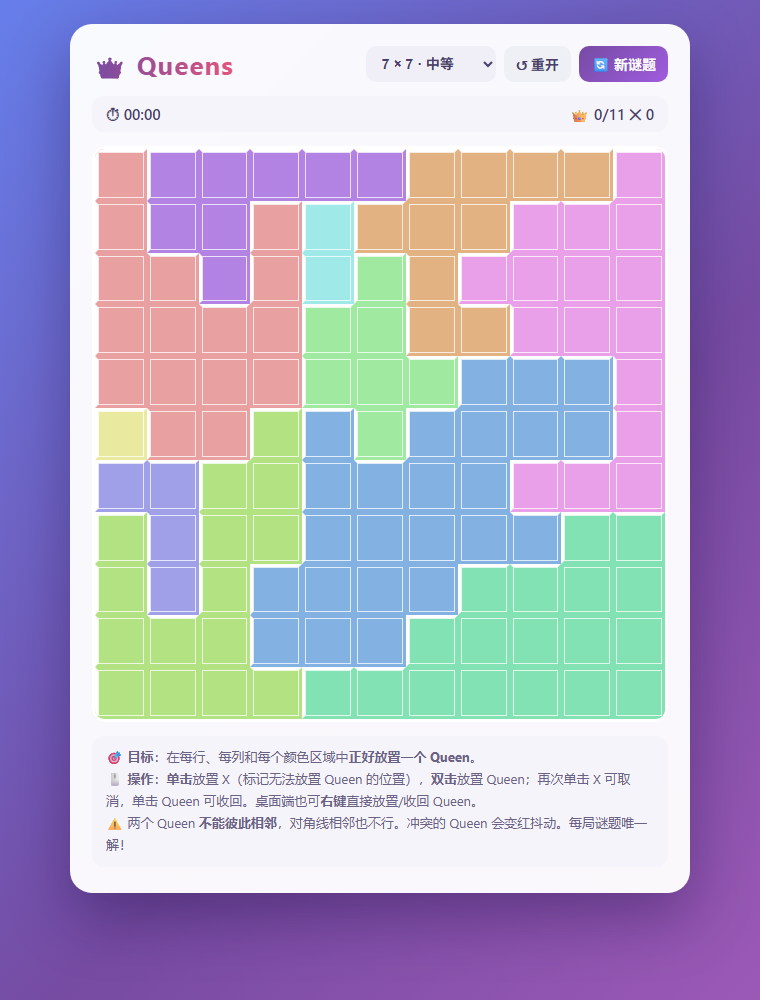
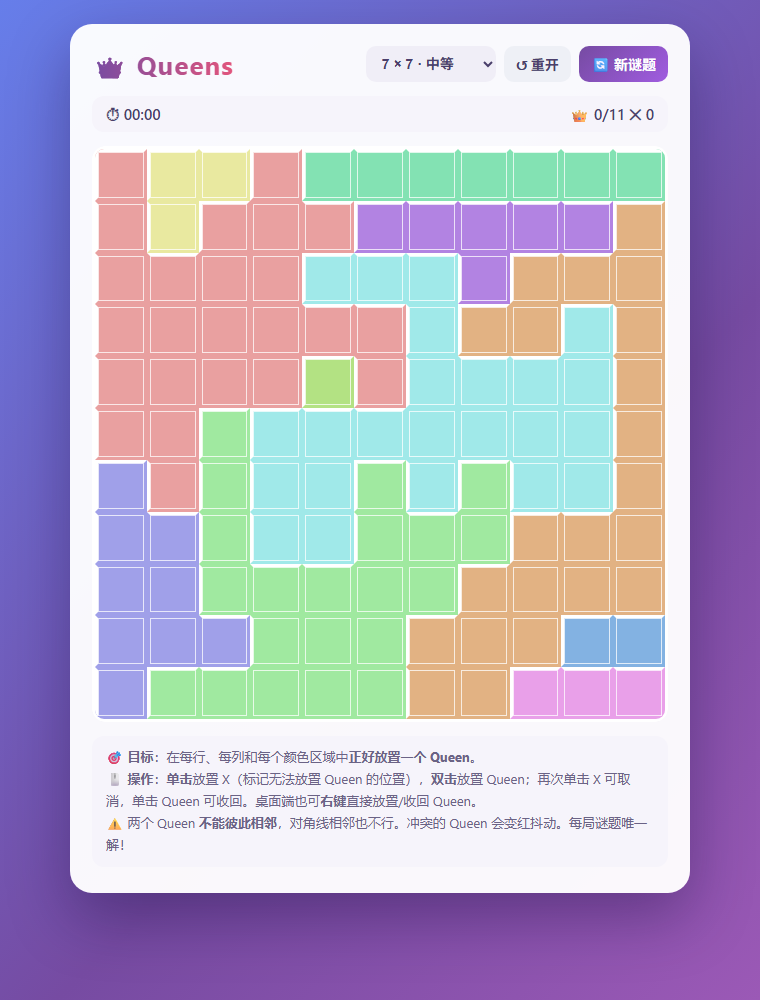
Varied region sizes: weighted Voronoi seeds + post-solve verified area polish

diff --git a/index.html b/index.html
@@ -227,16 +227,18 @@ function randomPermutationSolution(n) {
   return bt(0) ? pos : null;
 }
 
-// 区域生长：距离场(Voronoi)归属 + 连通修复 + 凸起平滑，生成圆润规整的色区
+// 区域生长：加权距离场(Voronoi)归属 + 连通修复 + 凸起平滑，生成大小参差、互相咬合的色区
 function growRegions(n, seeds) {
   const DIRS = [[-1, 0], [1, 0], [0, -1], [0, 1]];
   const region = Array.from({ length: n }, () => new Array(n).fill(-1));
-  // 1) 每个种子带轻微随机偏移，按曼哈顿距离把格子分给最近的种子 → 边界近似平滑的 Voronoi 块
-  const bias = seeds.map(() => Math.random() * 2.4);
+  // 1) 每个种子有强有弱（权重）且带偏移；每格再加轻微噪声 → 区域大小参差、边界互相咬合
+  const weight = seeds.map(() => 0.68 + Math.random() * 0.8); // 0.68~1.48：大小拉开差距
+  const bias = seeds.map(() => Math.random() * 1.8);
   for (let r = 0; r < n; r++) for (let c = 0; c < n; c++) {
     let best = 0, bd = Infinity;
     for (let s = 0; s < n; s++) {
-      const d = Math.abs(r - seeds[s].r) + Math.abs(c - seeds[s].c) + bias[s];
+      const d = (Math.abs(r - seeds[s].r) + Math.abs(c - seeds[s].c)) / weight[s] +
+        bias[s] + Math.random() * 0.55; // 格子级噪声：制造自然咬合
       if (d < bd) { bd = d; best = s; }
     }
     region[r][c] = best;
@@ -295,16 +297,44 @@ function growRegions(n, seeds) {
     }
     if (!changed) break;
   }
-  // 4) 面积平衡：面积过小的区域从相邻区域借格子，避免单格碎片
+  // 4) 再平衡：超大区域吐格子给邻居、过小区域借格子，最终面积落在 [minA, maxA] 的参差区间
   const countAreas = () => {
     const a = new Array(n).fill(0);
     for (let r = 0; r < n; r++) for (let c = 0; c < n; c++) a[region[r][c]]++;
     return a;
   };
-  for (let iter = 0; iter < 2; iter++) {
+  const minA = Math.max(2, Math.round(n * 0.45));
+  const maxA = Math.round(n * 1.7);
+  for (let iter = 0; iter < 6; iter++) {
     const areas = countAreas();
+    let changed = false;
+    // 4a) 过大 → 把边缘格吐给相邻且不超限的区域
     for (let g = 0; g < n; g++) {
-      if (areas[g] >= 3) continue;
+      if (areas[g] <= maxA) continue;
+      const cells = [];
+      for (let r = 0; r < n; r++) for (let c = 0; c < n; c++) {
+        if (region[r][c] !== g || isSeed(r, c)) continue;
+        const nb = new Set();
+        for (const [dr, dc] of DIRS) {
+          const rr = r + dr, cc = c + dc;
+          if (rr >= 0 && rr < n && cc >= 0 && cc < n && region[rr][cc] !== g) nb.add(region[rr][cc]);
+        }
+        if (nb.size) cells.push([r, c, nb]);
+      }
+      shuffleArr(cells);
+      for (const [r, c, nb] of cells) {
+        if (areas[g] <= maxA) break;
+        for (const h of nb) {
+          if (areas[h] >= maxA) continue;
+          region[r][c] = h;
+          if (regionConnected(n, region, g) && regionConnected(n, region, h)) { areas[g]--; areas[h]++; changed = true; break; }
+          region[r][c] = g;
+        }
+      }
+    }
+    // 4b) 过小 → 从相邻区域借格子
+    for (let g = 0; g < n; g++) {
+      if (areas[g] >= minA) continue;
       const cand = [];
       for (let r = 0; r < n; r++) for (let c = 0; c < n; c++) {
         const h = region[r][c];
@@ -313,17 +343,18 @@ function growRegions(n, seeds) {
           const rr = r + dr, cc = c + dc;
           return rr >= 0 && rr < n && cc >= 0 && cc < n && region[rr][cc] === g;
         });
-        if (adj && areas[h] > 4) cand.push([r, c, h]);
+        if (adj && areas[h] > minA) cand.push([r, c, h]);
       }
       shuffleArr(cand);
       for (const [r, c, h] of cand) {
-        if (areas[g] >= 3) break;
-        if (areas[h] <= 4) continue;
+        if (areas[g] >= minA) break;
+        if (areas[h] <= minA) continue;
         region[r][c] = g;
-        if (regionConnected(n, region, h) && regionConnected(n, region, g)) { areas[g]++; areas[h]--; }
+        if (regionConnected(n, region, h) && regionConnected(n, region, g)) { areas[g]++; areas[h]--; changed = true; }
         else region[r][c] = h;
       }
     }
+    if (!changed) break;
   }
   return region;
 }
@@ -424,6 +455,81 @@ function perturbOnce(n, regions, queenKeys) {
   return false;
 }
 
+// 面积抛光：唯一解达成后，把过大区域拆给邻居、过小区域补大，每步都验证唯一性保持。
+// 注意：重新划格可能让「某区 2 后、某区无后」的非法解变成合法解，所以必须逐步验证。
+function polishAreas(n, seeds, regions) {
+  const DIRS = [[-1, 0], [1, 0], [0, -1], [0, 1]];
+  const seedKeys = new Set(seeds.map(s => s.r * n + s.c));
+  const maxA = Math.round(n * 1.9);
+  const minA = Math.max(2, Math.round(n * 0.45));
+  const count = () => {
+    const a = new Array(n).fill(0);
+    for (let r = 0; r < n; r++) for (let c = 0; c < n; c++) a[regions[r][c]]++;
+    return a;
+  };
+  let budget = 14; // 最多验证 / 转移 14 次，控制耗时
+  for (let iter = 0; iter < 8 && budget > 0; iter++) {
+    const areas = count();
+    let changed = false;
+    // 1) 超大区域把边缘格吐给面积最小的邻居
+    for (let g = 0; g < n && budget > 0; g++) {
+      if (areas[g] <= maxA) continue;
+      const cells = [];
+      for (let r = 0; r < n; r++) for (let c = 0; c < n; c++) {
+        if (regions[r][c] !== g || seedKeys.has(r * n + c)) continue;
+        const nb = new Set();
+        for (const [dr, dc] of DIRS) {
+          const rr = r + dr, cc = c + dc;
+          if (rr >= 0 && rr < n && cc >= 0 && cc < n && regions[rr][cc] !== g) nb.add(regions[rr][cc]);
+        }
+        if (nb.size) cells.push([r, c, nb]);
+      }
+      shuffleArr(cells);
+      for (const [r, c, nb] of cells) {
+        if (areas[g] <= maxA || budget <= 0) break;
+        const h = [...nb].sort((a, b) => areas[a] - areas[b])[0];
+        if (h === undefined) continue;
+        regions[r][c] = h;
+        budget--;
+        if (regionConnected(n, regions, g) && regionConnected(n, regions, h) &&
+            findSolutions(n, regions, 2).count === 1) {
+          areas[g]--; areas[h]++; changed = true;
+        } else {
+          regions[r][c] = g;
+        }
+      }
+    }
+    // 2) 过小区域从相邻大区借格子
+    for (let g = 0; g < n && budget > 0; g++) {
+      if (areas[g] >= minA) continue;
+      const cand = [];
+      for (let r = 0; r < n; r++) for (let c = 0; c < n; c++) {
+        const h = regions[r][c];
+        if (h === g) continue;
+        const adj = DIRS.some(([dr, dc]) => {
+          const rr = r + dr, cc = c + dc;
+          return rr >= 0 && rr < n && cc >= 0 && cc < n && regions[rr][cc] === g;
+        });
+        if (adj && areas[h] > minA + 1) cand.push([r, c, h]);
+      }
+      shuffleArr(cand);
+      for (const [r, c, h] of cand) {
+        if (areas[g] >= minA || budget <= 0) break;
+        if (areas[h] <= minA) continue;
+        regions[r][c] = g;
+        budget--;
+        if (regionConnected(n, regions, h) && regionConnected(n, regions, g) &&
+            findSolutions(n, regions, 2).count === 1) {
+          areas[g]++; areas[h]--; changed = true;
+        } else {
+          regions[r][c] = h;
+        }
+      }
+    }
+    if (!changed) break;
+  }
+}
+
 // 生成唯一解谜题：随机着色 + 局部改进消灭多余解 + 随机扰动跳出僵局
 // 引理：把多余解 T 的皇后格 g 重划入相邻区，只会消灭「以 g 为皇后」的解，
 // 不会产生新解，也不影响主解 S（g 不是 S 的皇后）→ 解数单调不增
@@ -440,9 +546,9 @@ function generatePuzzle(n, maxAttempts) {
     const cap = n >= 10 ? 6 : 3;
     const K = n >= 10 ? 8 : 2; // 大盘一次收集更多多余解批量消灭
     for (let step = 0; step < 400; step++) {
-      if (Date.now() - t0 > budget && fallback) return fallback;
+      if (Date.now() - t0 > budget && fallback) return polishResult(fallback);
       const res = findSolutions(n, regions, K);
-      if (res.count === 1) return { n, sol, regions };
+      if (res.count === 1) return polishResult({ n, sol, regions });
       fallback = { n, sol, regions };
       // 差异格并集：所有多余解 T≠S 中与 S 不同的皇后格
       const diffs = [];
@@ -473,7 +579,13 @@ function generatePuzzle(n, maxAttempts) {
       if (!moved && !perturbOnce(n, regions, queenKeys)) break; // 僵局且扰动失败，整体重来
     }
   }
-  return fallback; // 极小概率：退化为多解谜题（仍可玩）
+  return polishResult(fallback); // 极小概率：退化为多解谜题（仍可玩）
+}
+
+// 对结果做面积抛光（唯一解下不会破坏唯一性）
+function polishResult(p) {
+  if (p) polishAreas(p.n, p.sol.map((c, r) => ({ r, c })), p.regions);
+  return p;
 }
 /* ============ ALGO END ============ */
 

diff --git a/README.md b/README.md
@@ -35,11 +35,13 @@
 ## 🧠 谜题是怎么生成的（技术说明）
 
 1. 随机回溯生成一个满足全部约束的「主解」（每行每列各一个、互不相邻）；
-2. **距离场（Voronoi）生长**：以每个 Queen 为种子，按加权曼哈顿距离把格子分给最近的种子，得到近似平滑的块状色区；
-3. **连通修复 + 凸起平滑**：断开的小块并入邻居，三面被同一色区包围的「凸起单格」消除，让区域边界更规整；
-4. **面积平衡**：面积极小的色区从相邻色区借格子，避免 1~2 格的碎片；
-5. 用回溯求解器数解：若存在多余解，把多余解的 Queen 格**重划入相邻色区**精确消灭之（数学上可证该操作只会减少解、不影响主解），配合随机扰动跳出僵局；
-6. 迭代直到**唯一解**（实测 6×6–9×9 接近 100%，11×11 约 70%，极端情况限时退化为多解谜题，仍可正常游玩）。
+2. **加权距离场（Voronoi）生长**：每个种子带随机强弱与偏移、每格再加轻微噪声，按加权曼哈顿距离分格——区域**大小参差、边界互相咬合**；
+3. **连通修复 + 凸起平滑**：断开的小块并入邻居，三面被同一色区包围的「凸起单格」消除；
+4. **再平衡**：超大区域吐格子、过小区域借格子，把面积压进合理区间；
+5. 用回溯求解器数解：若存在多余解，把多余解的 Queen 格**重划入相邻色区**精确消灭之，配合随机扰动跳出僵局，迭代到**唯一解**；
+6. **面积抛光**：唯一解达成后，继续把过大的区域拆给邻居，每步用求解器验证唯一性不被破坏。
+
+实测 6×6–9×9 唯一解率 100%，大盘 95%，极端情况限时退化为多解谜题，仍可正常游玩。每个颜色区域颜色互不相同，相邻区域优先分配对比最强的颜色。
 
 `test.js` 为生成器压力测试（直接从 index.html 提取真实算法运行）：
 
